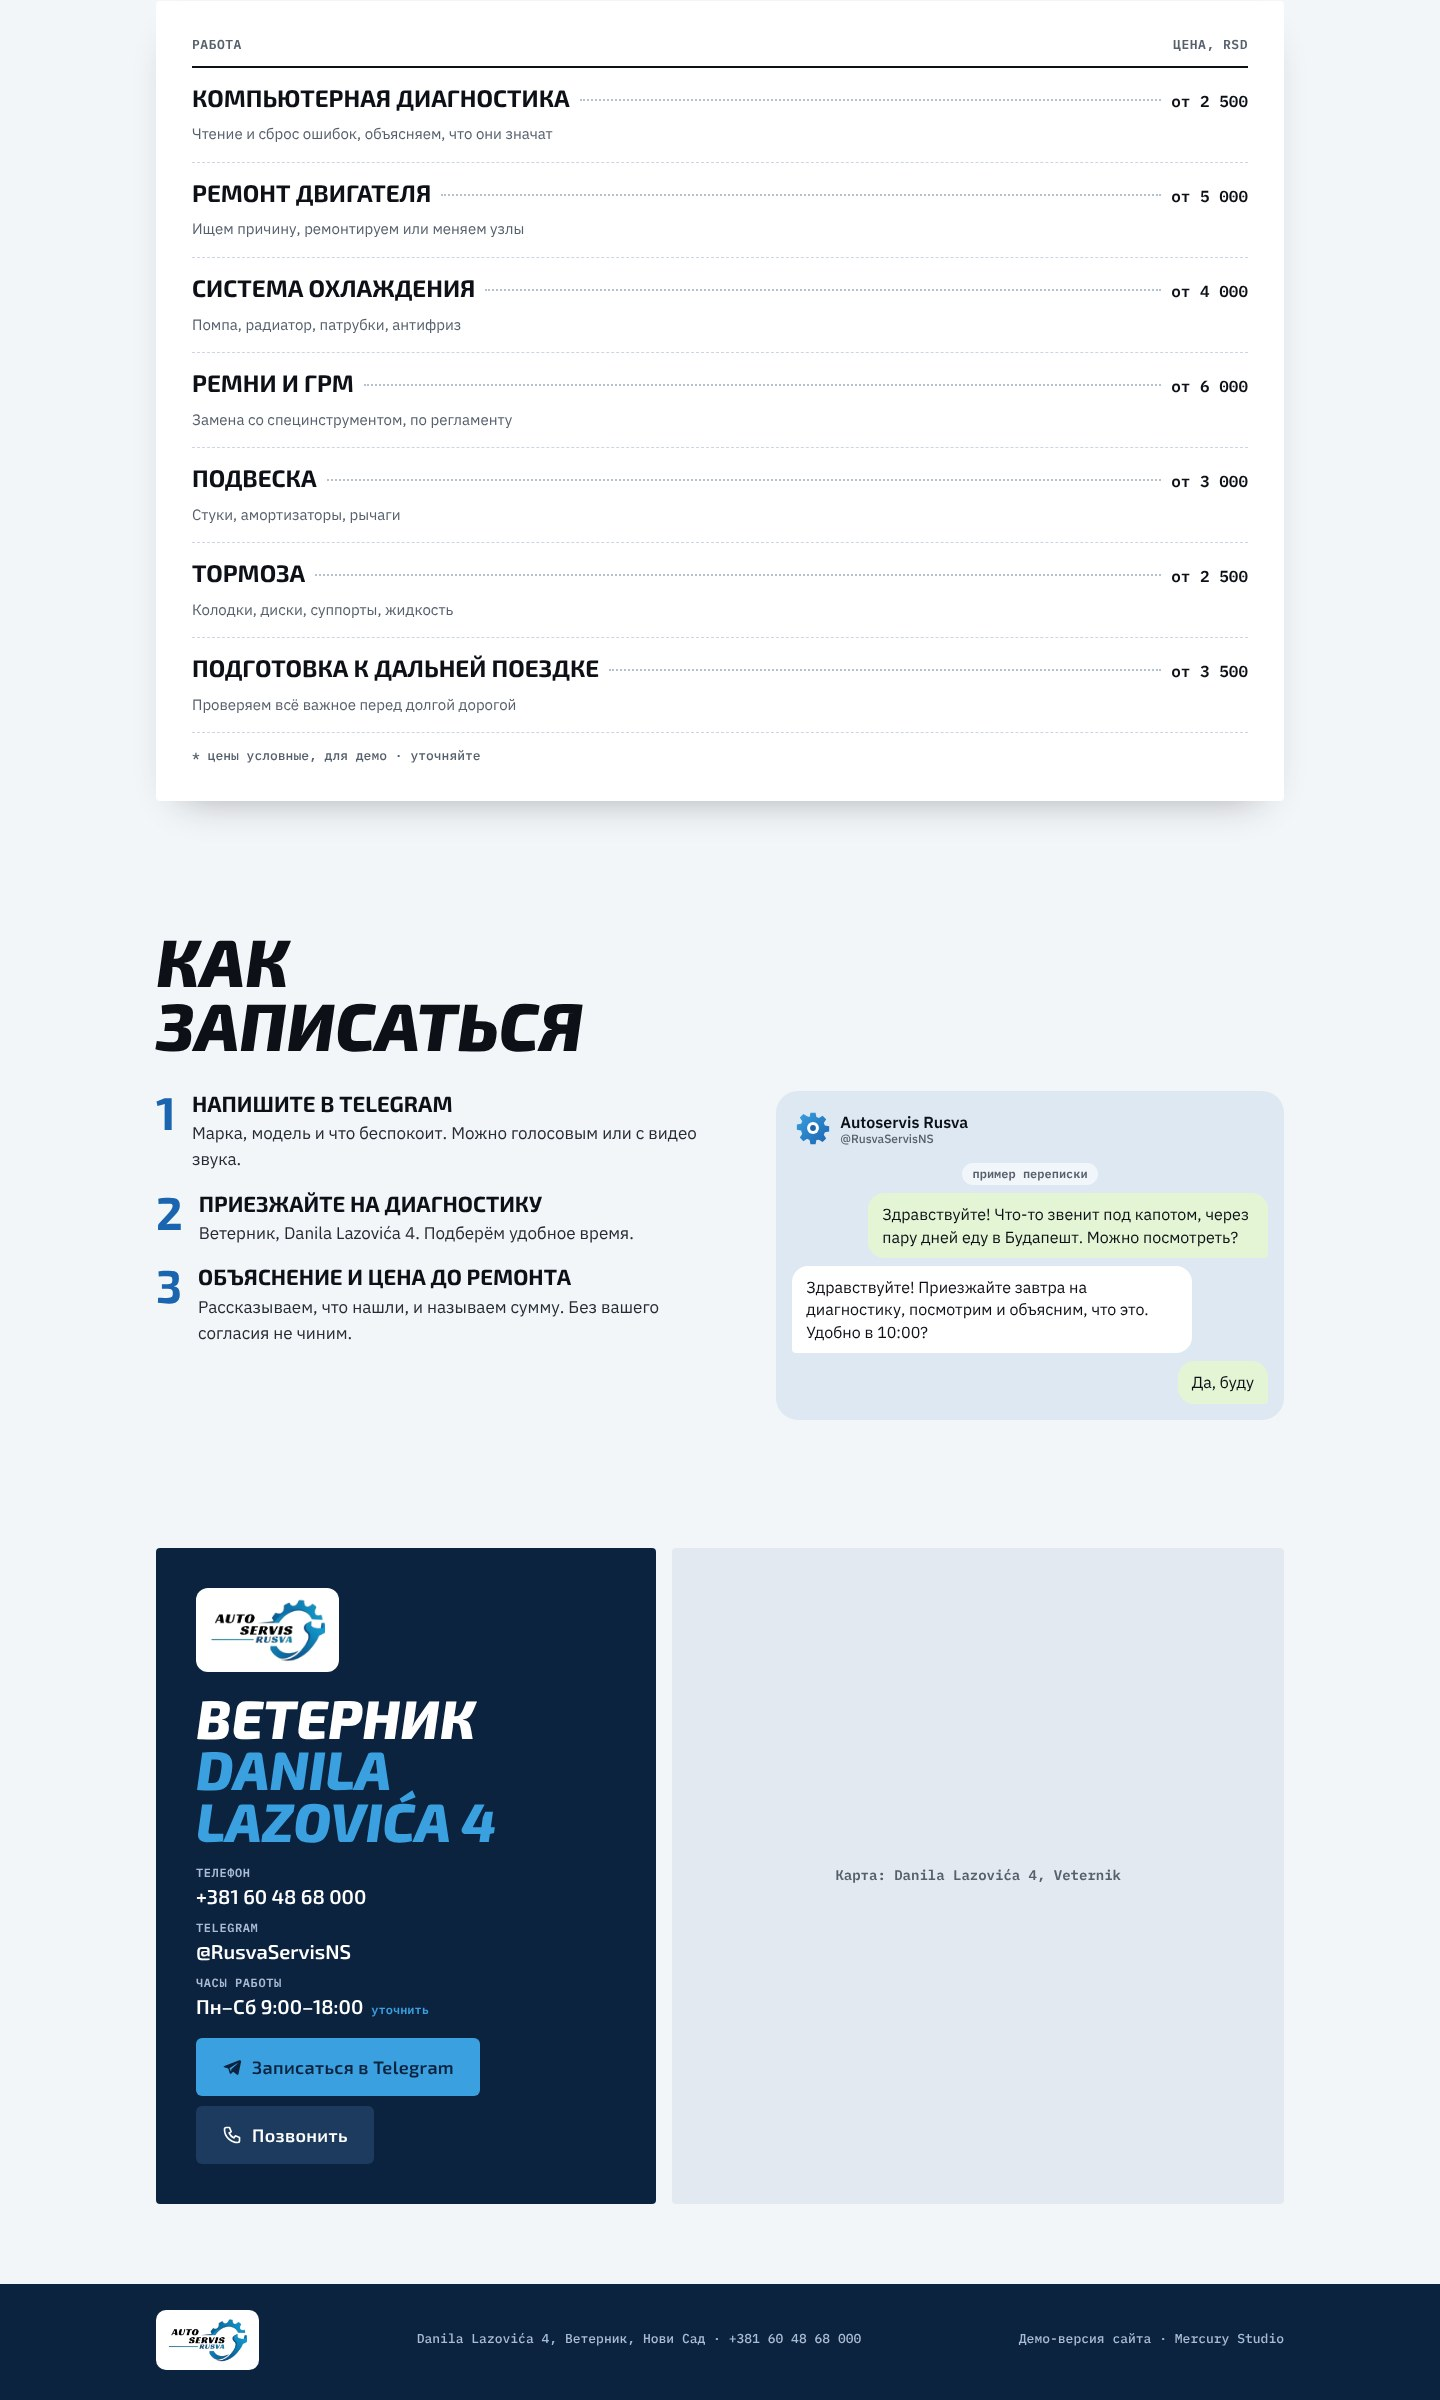
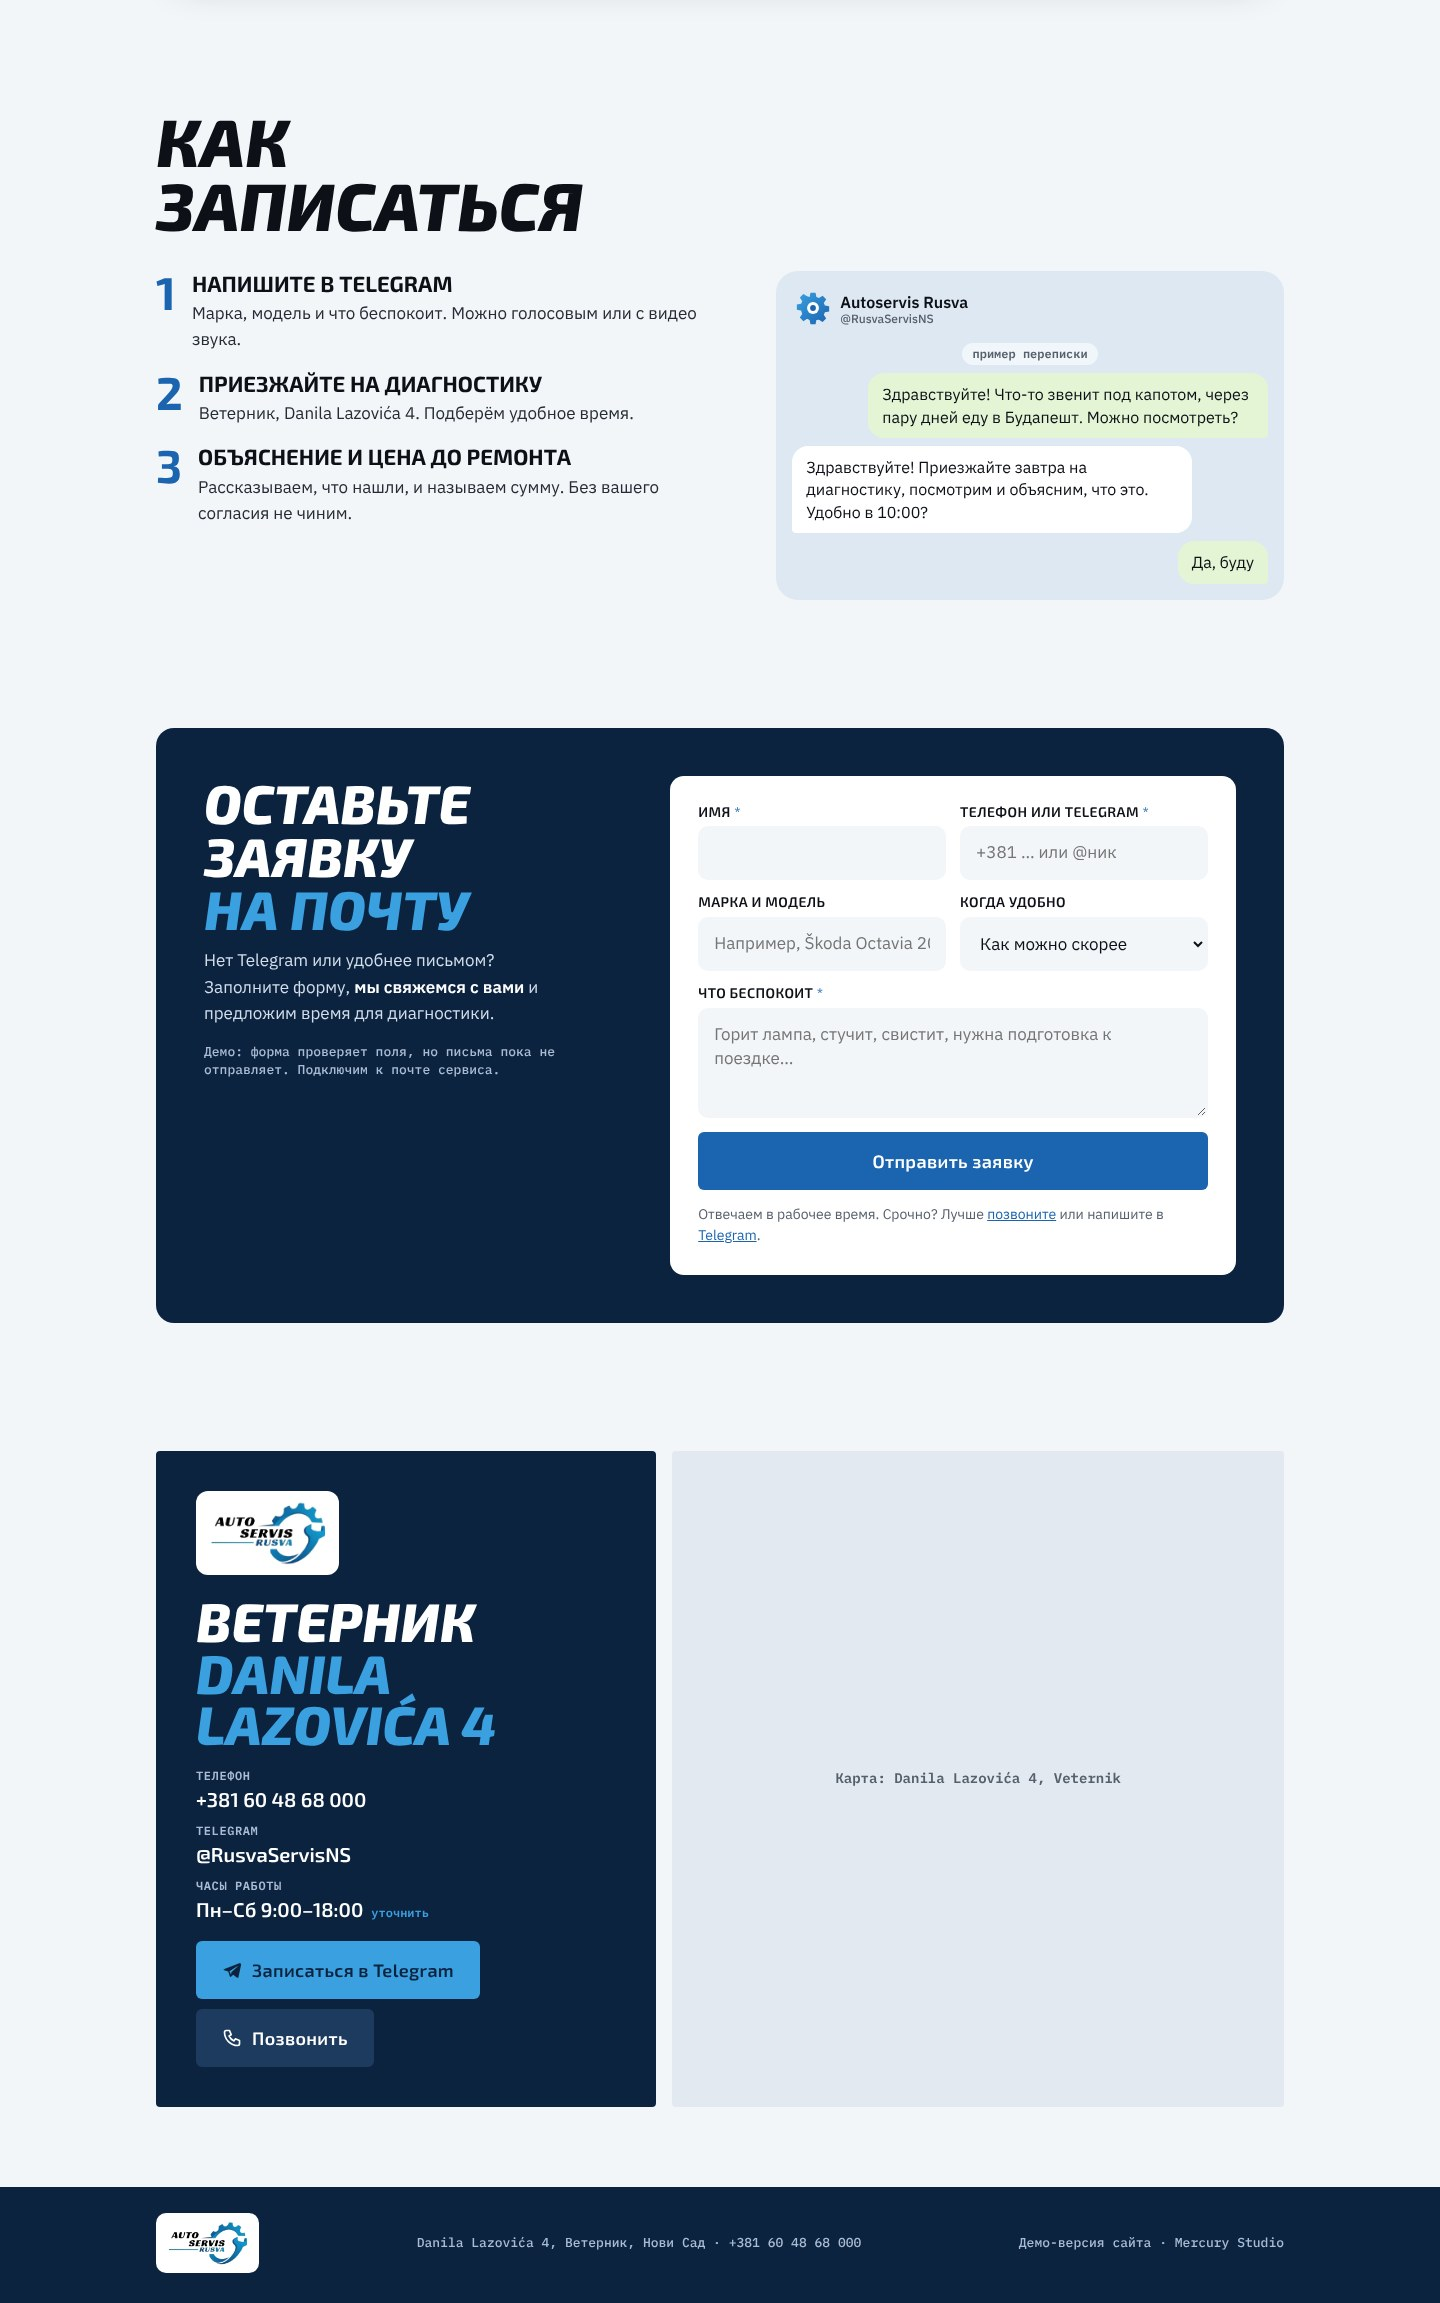
Autoservis Rusva: email request form (Web3Forms-ready, demo mode until keyed)
Claude-Session: https://claude.ai/code/session_01UWZxjZDZsRNAHBMSR73c6z

diff --git a/sites/rusva/index.html b/sites/rusva/index.html
@@ -145,6 +145,39 @@ button{font:inherit;color:inherit}
 .msg.me{justify-self:end;background:#e3f5d5;border-bottom-right-radius:4px}
 .msg.them{border-bottom-left-radius:4px}
 
+/* request form: sends to the shop's email through a form service */
+.req{display:grid;gap:20px;background:var(--navy);color:#fff;border-radius:18px;padding:clamp(22px,4vw,48px);position:relative;overflow:hidden}
+.req h2{font:italic 800 clamp(2rem,1.3rem + 2.8vw,3.4rem)/.98 var(--cond);text-transform:uppercase}
+.req h2 span{display:block;color:var(--sky)}
+.req .lead{color:#d3deeb;margin-top:12px;max-width:36ch}
+.req .lead b{color:#fff}
+.form{display:grid;grid-template-columns:1fr;gap:14px;background:#fff;color:var(--ink);border-radius:14px;padding:clamp(18px,3vw,28px)}
+.f{display:grid;gap:6px}
+.f label{font:600 14px/1.2 var(--cond);text-transform:uppercase;letter-spacing:.03em}
+.f label i{font-style:normal;color:var(--blue)}
+.f input,.f select,.f textarea{width:100%;font:400 17px/1.4 var(--sans);color:var(--ink);background:var(--concrete);border:2px solid transparent;border-radius:10px;padding:13px 14px;transition:border-color .2s,background-color .2s}
+.f textarea{min-height:110px;resize:vertical}
+.f input:focus,.f select:focus,.f textarea:focus{outline:none;border-color:var(--blue);background:#fff}
+.f input[aria-invalid="true"],.f textarea[aria-invalid="true"]{border-color:var(--red);background:#fff5f3}
+.f .err{display:none;font-size:14px;color:#b3321d}
+.f input[aria-invalid="true"]~.err,.f textarea[aria-invalid="true"]~.err{display:block}
+.form .btn{width:100%;border:0;cursor:pointer}
+.form .note{font-size:14px;color:var(--mute)}
+.form .note a{color:var(--blue)}
+.done{display:none;gap:10px;align-content:start;background:#fff;color:var(--ink);border-radius:14px;padding:clamp(22px,3vw,32px)}
+.done .ok{width:56px;height:56px;border-radius:50%;display:grid;place-items:center;background:linear-gradient(135deg,var(--sky),var(--blue));color:#fff} /* taste-skill-ignore: the logo's blue gradient */
+.done .ok svg{width:30px;height:30px}
+.done h3{font:italic 800 26px/1.1 var(--cond);text-transform:uppercase}
+.done p{color:var(--ink-2)}
+.req.sent .form{display:none}
+.req.sent .done{display:grid}
+.demo-flag{margin-top:16px;font:500 13px/1.4 var(--mono);color:#a9bcd3}
+@media (min-width:920px){
+  .req{grid-template-columns:.85fr 1.15fr;gap:48px;align-items:start}
+  .form{grid-template-columns:1fr 1fr}
+  .form .wide{grid-column:1/-1}
+}
+
 /* contacts */
 .contact{display:grid;gap:16px}
 .place .plate{justify-self:start;background:#fff;border-radius:12px;padding:10px 14px;line-height:0}
@@ -210,7 +243,7 @@ footer .wrap{display:flex;flex-wrap:wrap;justify-content:space-between;align-ite
 
 <header class="wrap top">
   <a class="logo" href="#top" id="top"><img src="img/logo.png" alt="Auto Servis Rusva" width="562" height="312"></a>
-  <nav aria-label="Разделы"><a href="#simptomy">Симптомы</a><a href="#ceny">Цены</a><a href="#zapis">Запись</a><a href="#kontakty">Контакты</a></nav>
+  <nav aria-label="Разделы"><a href="#simptomy">Симптомы</a><a href="#ceny">Цены</a><a href="#zapis">Запись</a><a href="#zayavka">Заявка</a><a href="#kontakty">Контакты</a></nav>
   <a class="tel" href="tel:+381604868000">+381 60 48 68 000</a>
   <div class="langs" role="group" aria-label="Язык"><button type="button" aria-pressed="true">RU</button><button type="button" aria-pressed="false">SR</button></div>
 </header>
@@ -315,6 +348,32 @@ footer .wrap{display:flex;flex-wrap:wrap;justify-content:space-between;align-ite
     </div>
   </section>
 
+  <section class="wrap sec" id="zayavka" aria-labelledby="req-h">
+    <div class="req">
+      <div>
+        <h2 id="req-h">Оставьте заявку <span>на почту</span></h2>
+        <p class="lead">Нет Telegram или удобнее письмом? Заполните форму, <b>мы свяжемся с вами</b> и предложим время для диагностики.</p>
+        <p class="demo-flag" id="demo-flag" hidden>Демо: форма проверяет поля, но письма пока не отправляет. Подключим к почте сервиса.</p>
+      </div>
+      <form class="form" id="req-form" novalidate>
+        <input type="hidden" name="subject" value="Новая заявка с сайта Autoservis Rusva">
+        <input type="checkbox" name="botcheck" class="hp" tabindex="-1" autocomplete="off" style="display:none">
+        <div class="f"><label for="r-name">Имя <i>*</i></label><input id="r-name" name="name" autocomplete="name" required><span class="err">Напишите, как к вам обращаться</span></div>
+        <div class="f"><label for="r-phone">Телефон или Telegram <i>*</i></label><input id="r-phone" name="phone" autocomplete="tel" required placeholder="+381 … или @ник"><span class="err">Нужен телефон или Telegram, чтобы мы ответили</span></div>
+        <div class="f"><label for="r-car">Марка и модель</label><input id="r-car" name="car" placeholder="Например, Škoda Octavia 2015"></div>
+        <div class="f"><label for="r-day">Когда удобно</label><select id="r-day" name="when"><option>Как можно скорее</option><option>На этой неделе</option><option>На следующей неделе</option><option>Обсудим</option></select></div>
+        <div class="f wide"><label for="r-msg">Что беспокоит <i>*</i></label><textarea id="r-msg" name="message" required placeholder="Горит лампа, стучит, свистит, нужна подготовка к поездке…"></textarea><span class="err">Опишите в двух словах, что случилось</span></div>
+        <div class="wide"><button class="btn btn-tg" type="submit" id="r-send">Отправить заявку</button></div>
+        <p class="note wide">Отвечаем в рабочее время. Срочно? Лучше <a href="tel:+381604868000">позвоните</a> или напишите в <a href="https://t.me/RusvaServisNS">Telegram</a>.</p>
+      </form>
+      <div class="done" role="status" aria-live="polite">
+        <span class="ok"><svg aria-hidden="true"><use href="#i-check"/></svg></span>
+        <h3>Заявка отправлена</h3>
+        <p>Спасибо! Мы свяжемся с вами и предложим время для диагностики.</p>
+      </div>
+    </div>
+  </section>
+
   <section class="wrap sec" id="kontakty" aria-labelledby="ct-h">
     <div class="contact">
       <div class="place">
@@ -367,6 +426,26 @@ footer .wrap{display:flex;flex-wrap:wrap;justify-content:space-between;align-ite
 })();
 /* RU/SR: the Serbian copy is not filled yet, the switch only shows state */
 document.querySelectorAll(".langs button").forEach(function(b,i,all){b.addEventListener("click",function(){all.forEach(function(x){x.setAttribute("aria-pressed",x===b)})})});
+/* request form. To go live: put the Web3Forms access key (free, tied to the shop's email) into FORM_KEY. */
+(function(){
+  var FORM_KEY="", form=document.getElementById("req-form"), box=form&&form.closest(".req");
+  if(!form)return;
+  if(!FORM_KEY)document.getElementById("demo-flag").hidden=false;
+  function check(el){var bad=el.required&&!el.value.trim();el.setAttribute("aria-invalid",bad?"true":"false");return !bad}
+  form.querySelectorAll("[required]").forEach(function(el){el.addEventListener("input",function(){if(el.getAttribute("aria-invalid")==="true")check(el)})});
+  form.addEventListener("submit",function(e){
+    e.preventDefault();
+    var req=[].slice.call(form.querySelectorAll("[required]")),ok=req.map(check).every(Boolean);
+    if(!ok){req.filter(function(el){return el.getAttribute("aria-invalid")==="true"})[0].focus();return}
+    var btn=document.getElementById("r-send");btn.disabled=true;btn.textContent="Отправляем…";
+    function done(){box.classList.add("sent");box.querySelector(".done").focus&&box.querySelector(".done").setAttribute("tabindex","-1");box.querySelector(".done").focus()}
+    if(!FORM_KEY){setTimeout(done,500);return}
+    var data=new FormData(form);data.append("access_key",FORM_KEY);
+    fetch("https://api.web3forms.com/submit",{method:"POST",body:data}).then(function(r){return r.json()}).then(function(j){
+      if(j.success)done();else throw 0;
+    }).catch(function(){btn.disabled=false;btn.textContent="Отправить заявку";alert("Не получилось отправить. Позвоните или напишите в Telegram.")});
+  });
+})();
 /* phone: the bottom bar appears once the first-screen buttons scroll away */
 (function(){
   var dock=document.querySelector(".dock"),acts=document.querySelector(".hero .acts");
